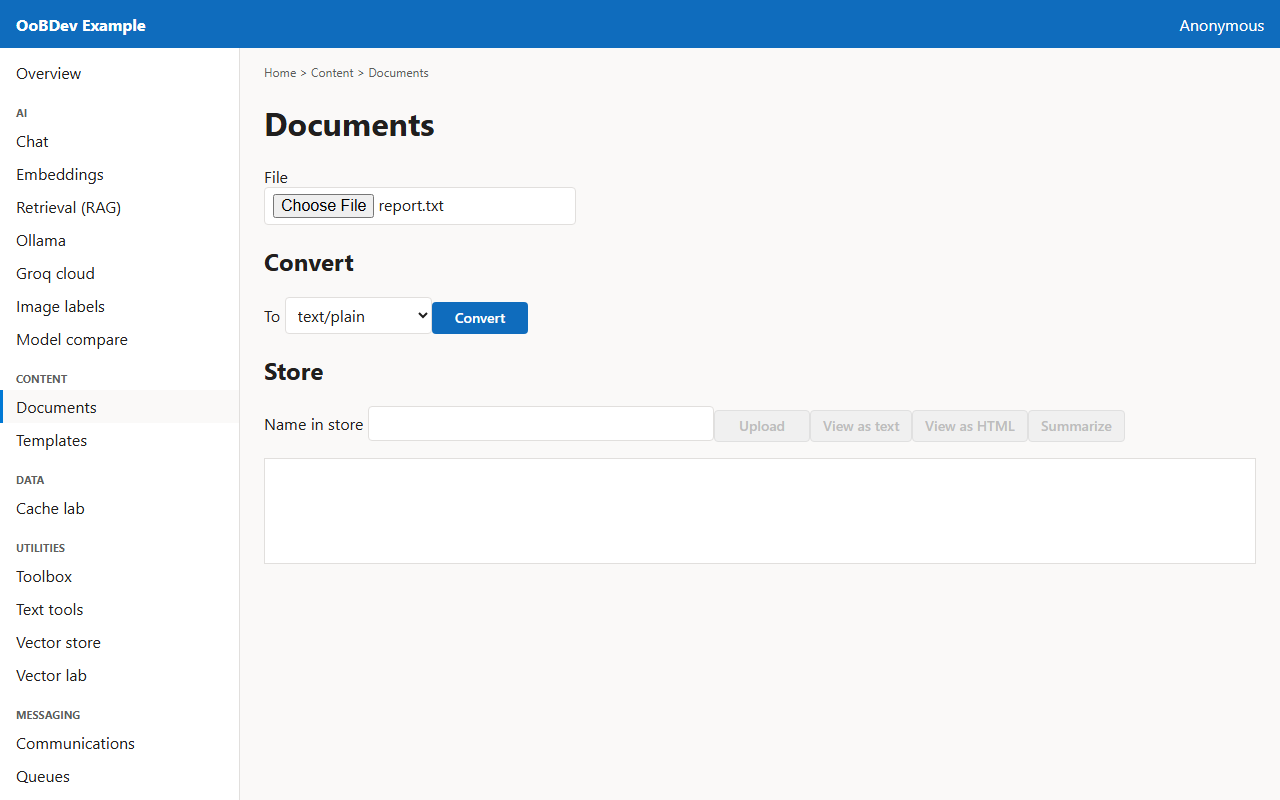
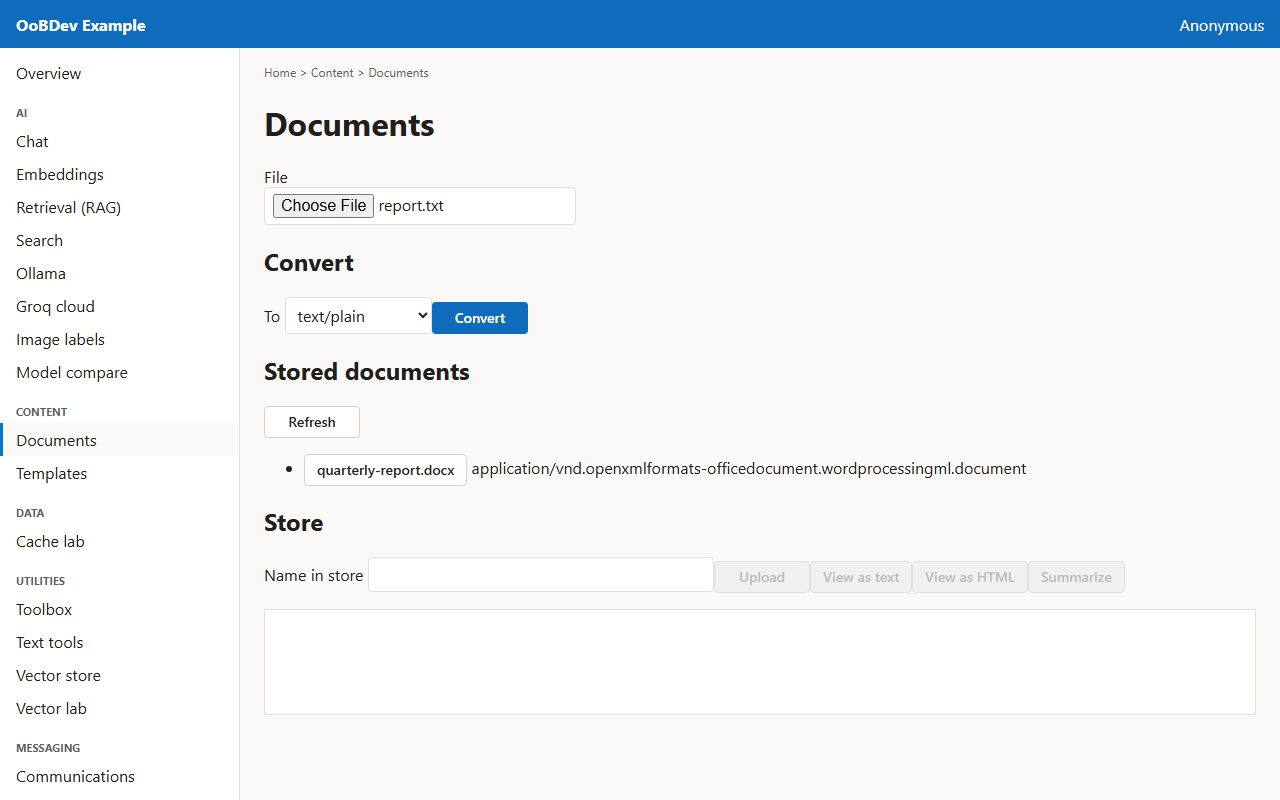
Add the stored-documents step to the example convert journey

diff --git a/src/Examples/OoBDev.Example.Web/e2e/journeys.ts b/src/Examples/OoBDev.Example.Web/e2e/journeys.ts
@@ -639,6 +639,15 @@ export const journeys: Journey[] = [
           await expect(page.locator('pre.result')).toContainText('Revenue grew 12 percent');
         },
       },
+      {
+        title: 'See what is stored',
+        narrative: 'The Stored documents list shows every document in the store; choosing a name fills the Name in store box.',
+        expect: ['The stored document is listed.'],
+        run: async page => {
+          await expect(page.locator('.stored-list li').first()).toContainText('quarterly-report.docx');
+          await press(page, 'quarterly-report.docx');
+        },
+      },
     ],
   },
   {

diff --git a/docs/changes/2026-11-09.md b/docs/changes/2026-11-09.md
@@ -57,4 +57,4 @@ The queue-adapters half of the missing-screens item. `GET api/MessageQueueing/ch
 
 ## Example journeys for Search, Templates and Queues (2026-11-09)
 
-Three Playwright journeys (`search-three-ways`, `preview-a-template`, `watch-the-queues`) with their guide, spec, run book and screenshots under `docs/applications/example/`, and `rest.md` regenerated by `ExampleApiGuideTests` (it now lists the new endpoints). `playwright.config.ts` gained `E2E_PORT` because the mocked run reuses whatever holds port 5173, and the Aspire host's Vite there uses real sign-in. Verified: the three journeys pass against the mocks (`E2E_PORT=5199`); the API guide test passes. Not done: no journey step for the Documents stored list; not run against the live stack.
+Three Playwright journeys (`search-three-ways`, `preview-a-template`, `watch-the-queues`) with their guide, spec, run book and screenshots under `docs/applications/example/`, and `rest.md` regenerated by `ExampleApiGuideTests` (it now lists the new endpoints). `playwright.config.ts` gained `E2E_PORT` because the mocked run reuses whatever holds port 5173, and the Aspire host's Vite there uses real sign-in. Verified: the three journeys pass against the mocks (`E2E_PORT=5199`); the API guide test passes. The Convert and store a document journey gained a "See what is stored" step for the stored list. Not run against the live stack.

diff --git a/BACKLOG.md b/BACKLOG.md
@@ -42,7 +42,6 @@ Owner: all protocols and features of dev-term must exist here. Done means what d
 - [ ] GraphQL surface (HotChocolate, on demand), without breaking the custom search syntax; adopt `[OoBDevEnableQuery]` in the example API when it gets an `IQueryable` endpoint. See the [HTTP API](docs/patterns-discovery/03-practices-and-conventions/10-http-api-practices.md) and [authorization](docs/patterns-discovery/03-practices-and-conventions/11-authorization-practices.md) practices.
 - [ ] Example guides cleanup, left: share the Tui screen-buffer renderer (`TuiCapture` is a copy of `TuiScreenshot`); waits for OPEN-QUESTIONS Q1.
 - [ ] Example app missing screens ([list](docs/design/example-ui/missing-screens.md)); owner, 2026-11-09, [recommended order](docs/design/example-ui/missing-screens.md#recommended-order) steps 1 to 3 are built (Search, Template management, queue monitor and blob browser); the rest stay unplanned.
-  - [ ] Playwright journey step for the Documents stored list (the Search, Templates and Queues journeys exist).
   - [ ] Template save waits for OPEN-QUESTIONS Q2; the queue receive monitor shows nothing until a channel has its receiver enabled (all example channels set `DisableReceiver`).
 - [ ] Performance gate for database-backed (non-vector) endpoints: no such endpoint exists yet, so add the gate with the first one.
 

diff --git a/docs/applications/example/specs/README.md b/docs/applications/example/specs/README.md
@@ -27,7 +27,7 @@ Acceptance criteria for each journey. The same journeys run as Playwright tests.
 | [Render a text template](render-a-template.md) | 2 | `/content/templates` |
 | [Send an email through a channel](send-an-email.md) | 2 | `/messaging/communications` |
 | [Put a message on a queue](queue-a-message.md) | 2 | `/messaging/queues` |
-| [Convert and store a document](convert-a-document.md) | 2 | `/content/documents` |
+| [Convert and store a document](convert-a-document.md) | 3 | `/content/documents` |
 | [Sign in with Keycloak](sign-in.md) | 3 | `/identity/me` |
 | [See the claims on your token](see-who-you-are.md) | 1 | `/identity/me` |
 | [Search passages by keyword, meaning and both](search-three-ways.md) | 2 | `/ai/search` |

diff --git a/docs/applications/example/runbooks/convert-a-document.md b/docs/applications/example/runbooks/convert-a-document.md
@@ -27,6 +27,7 @@ By hand, in the example web application at `/content/documents`:
 
 1. **Choose a file.** Pick the file to work with; every action below uses it. Expect: The Convert button is enabled once a file is chosen.
 2. **Convert it.** Choose the target type and convert. The converted text appears below. Expect: The converted text appears in the result panel.
+3. **See what is stored.** The Stored documents list shows every document in the store; choosing a name fills the Name in store box. Expect: The stored document is listed.
 
 ## Troubleshooting
 

diff --git a/docs/applications/example/user-guide/convert-a-document.md b/docs/applications/example/user-guide/convert-a-document.md
@@ -36,6 +36,7 @@ skinparam shadowing false
 start
 :Choose a file;
 :Convert it;
+:See what is stored;
 stop
 @enduml
 ```
@@ -59,3 +60,11 @@ Choose the target type and convert. The converted text appears below.
 ![Convert it](images/convert-a-document/02-convert-it.png)
 
 *Figure 3 — Convert it*
+
+### 3. See what is stored
+
+The Stored documents list shows every document in the store; choosing a name fills the Name in store box.
+
+![See what is stored](images/convert-a-document/03-see-what-is-stored.png)
+
+*Figure 4 — See what is stored*

diff --git a/docs/applications/example/specs/convert-a-document.md b/docs/applications/example/specs/convert-a-document.md
@@ -14,5 +14,6 @@
 | --- | --- | --- |
 | 1 | Choose a file | The Convert button is enabled once a file is chosen. |
 | 2 | Convert it | The converted text appears in the result panel. |
+| 3 | See what is stored | The stored document is listed. |
 
 Source: `e2e/journeys.ts` (journey `convert-a-document`). Each expected result is asserted by the step's `run` function.
